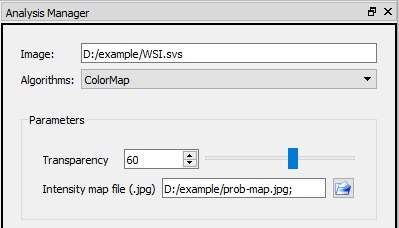
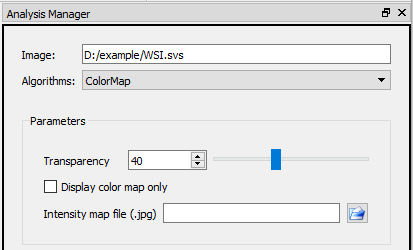
Include Display color map only option, reverse transparency scale so that 100% means fully transparent, user manual edits

Changed region(s): [[0.0, 0.0, 1.0, 1.0], [0.0902, 0.5833, 0.9023, 0.9211], [0.0602, 0.4605, 0.2105, 0.5526]]

diff --git a/ColorMap.cpp b/ColorMap.cpp
@@ -106,7 +106,8 @@ void ColorMap::creatHeatMap(image::RawImage& outputImage)
 	image::tile::Compositor compositor(source_factory);
 	outputImage = compositor.getImage(display_region.source_region, display_region.output_size);
 
-	float g_max_transparency = float(transparency_) / 100.0f;
+    //Since the slider is "transparency" and the input parameter is opacity, flip the value used
+	float g_max_opacity = (100.0f - float(transparency_)) / 100.0f;  
 	/*cv::Mat heatmap = cv::Mat::zeros(downsample_size_.height(), downsample_size_.width(), CV_32FC1);
 	heatmap = meshGrid_.clone();
 	meshGrid_= cv::Mat();*/
@@ -162,7 +163,7 @@ void ColorMap::creatHeatMap(image::RawImage& outputImage)
                     (unsigned char)it.getComponent(0));
             }
 			const cv::Vec3b heat_color = opencvColor.at<cv::Vec3b>(cv::Point(x, y));
-			const float heat_mix2 = std::min(heat_mix, g_max_transparency);
+			const float heat_mix2 = std::min(heat_mix, g_max_opacity);
 			const cv::Vec3b final_color = interpolate(i_color, heat_color, heat_mix2);
 			for (int j = 0; j < 3; j++) {
 				outputImage.setValue(x, y, j, final_color[2 - j]);
@@ -183,9 +184,9 @@ void ColorMap::init(const image::ImageHandle& input_image) {
 	transparency_ = createIntegerParameter( // use the creation function
 		*this, // reference to the algorithm
 		"Transparency", // name
-		"Set the max transparency of the overly heatmap", // description
-		60, // default value
-		0, // minimum allowed value
+		"Set the max transparency of the color map", // description
+		40,  // default value
+		0,   // minimum allowed value
 		100, // maximum allowed value
 		false); // optional or not
 

diff --git a/README.md b/README.md
@@ -1,21 +1,18 @@
 <h1 align="center">ColorMap Plugin</h1>
 
-The Color Map plugin allows a user to overlay an intensity map over a whole slide image (WSI). This is useful for things like visual representation of 
-cellularity, but can be used for any 
-The intensity map is displayed with a violet (low) to red (high) colour scale (the "jet" scale in OpenCV). 
-The colour scale is normalized between the lowest and highest pixel values in the intensity map. Usually the lowest value is 0, 
-The user can set a percent transparency value that determines how the overlay is displayed.
-The intensity map file must be a greyscale image in .jpg format.
+The Color Map plugin allows a user to overlay an intensity map over a whole slide image (WSI). 
+In particular, this is useful for the visual representation of cellularity or 2D probability distributions.
+The intensity map is displayed with a violet (low) to red (high) color scale (the "jet" scale in OpenCV). 
+The color scale is normalized between the lowest and highest pixel values in the intensity map. 
+The user can set a percent transparency value that determines how the color map is displayed, 
+and can choose whether to display the color map with or without the underlying slide image.
 
-
-
-
-Does it match the h and v scales?
-
-any other limitations?
-
-
-
+The intensity map file must be a greyscale image in .jpg format. Before running, the view must be zoomed
+out so that the entire low-resolution slide image is contained within the view area. When the 
+intensity map is loaded, the horizontal and vertical dimensions of the slide image are used 
+to scale the horizontal and vertical dimensions of the intensity map's JPEG image. If the dimensions 
+of the imported file are not in the same ratio as the dimensions of the whole slide image, unexpected
+stretching or shrinking of the intensity map may result.
 
 ## User Manual
 ##### 1.	Open a whole-slide image (WSI) in Sedeen Viewer. Zoom out so that the whole image is displayed within the view area.
@@ -28,24 +25,35 @@ any other limitations?
   <h6> <strong>Fig 1.</strong> The Analysis Manager, after loading a whole-slide image (WSI) and choosing the ColorMap plugin from the pulldown list of algorithms.</h6>
 </div>
 
-##### 3.	Adjust the Transparency slider or enter a number between 0 and 100 in the spinbox to choose how the intensity map will be displayed over the whole slide image.
-##### 4.	Click the folder icon to choose an intensity map file. The file must be in .jpg format.
+##### 3.	Adjust the Transparency slider or enter a number between 0 and 100 in the spinbox to choose how the intensity map will be displayed.
+##### 4.	To display only the color map and hide the slide image, check the box labeled, "Display color map only". Leave this unchecked to overlay the color map over the slide image.
+##### 5.	Click the folder icon to choose an intensity map file. The file must be in .jpg format.
 
 <div align="center">
   <img src="https://github.com/sedeen-piip-plugins/ColorMap/blob/master/Images/ColorMap_2.png"/>
 </div>
 <div align="center">
-  <h6> <strong>Fig 2.</strong> The Transparency slider allows the user to adjust the display of the intensity map. The second parameter allows the user to open an intensity file in .jpg format.</h6>
+  <h6> <strong>Fig 2.</strong> The "Transparency" slider allows the user to adjust the display of the intensity map. The "Display color map only" checkbox determines whether the color map will be overlaid on the slide image (unchecked), or if only the color map will be displayed (checked).</h6>
 </div>
 
-##### 4.	Click the Run button to overlay the intensity map on the image.
+##### 6.	Click the Run button to display the intensity map. Two examples of the output are shown below. Fig. 3 shows the result of setting transparency to 60% and choosing to display the whole slide image (unchecking the Display color map only box). Fig. 4 shows the result of setting the transparency to 0%.
 
 <div align="center">
   <img src="https://github.com/sedeen-piip-plugins/ColorMap/blob/master/Images/ColorMap_3.png"/>
 </div>
 <div align="center">
-  <h6> <strong>Fig 3.</strong> An intensity map displayed at 60% intensity over a whole-slide image.</h6>
+  <h6> <strong>Fig 3.</strong> A color map displayed at 40% transparency over a whole-slide image.</h6>
 </div>
+
+<div align="center">
+  <img src="https://github.com/sedeen-piip-plugins/ColorMap/blob/master/Images/ColorMap_4.png"/>
+</div>
+<div align="center">
+  <h6> <strong>Fig 3.</strong> A color map displayed at 0% transparency with the "Display color map only" box checked.</h6>
+</div>
+
+
+
 
 ## Authors
 Color Map Plugin was developed by **Azadeh Yazanpanah** with contributions by **Michael Schumaker**, Martel lab at Sunnybrook Research Institute (SRI), University of Toronto and was partially funded by [NIH grant](https://itcr.cancer.gov/funding-opportunities/pathology-image-informatics-platform-visualization-analysis-and-management).
